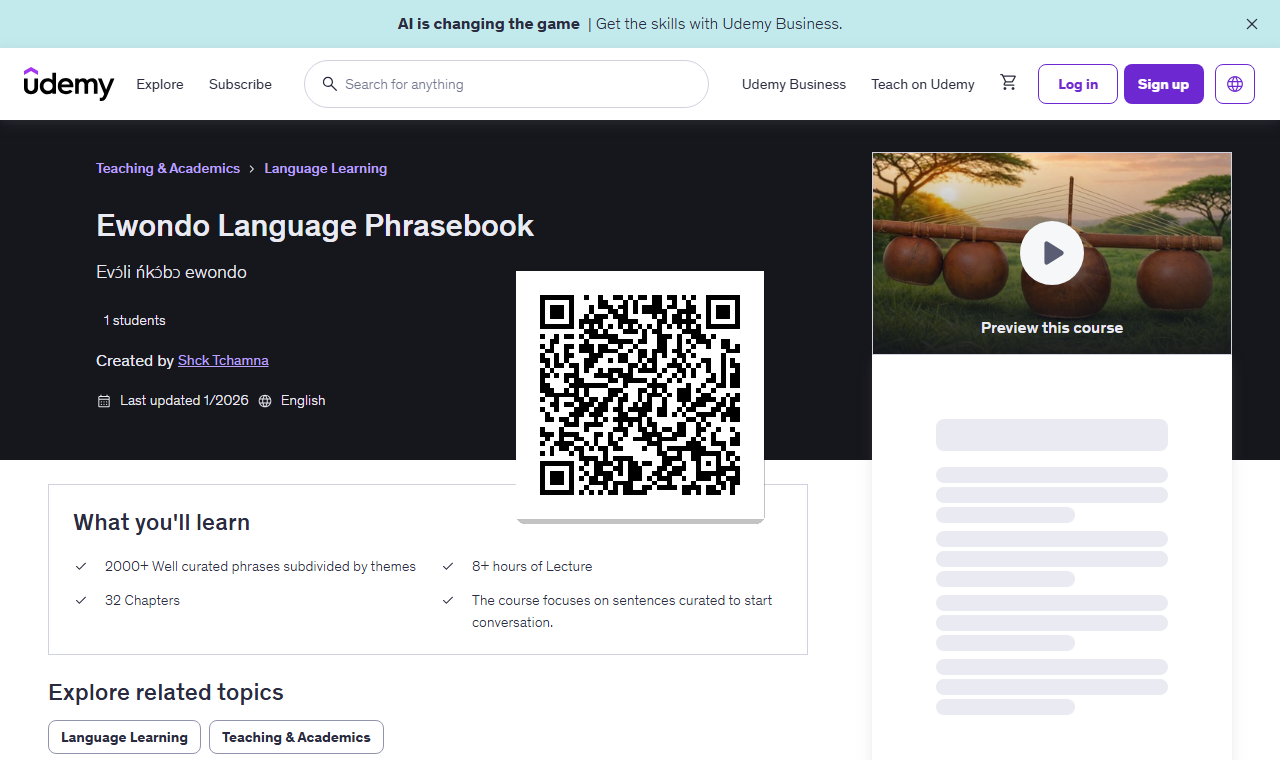
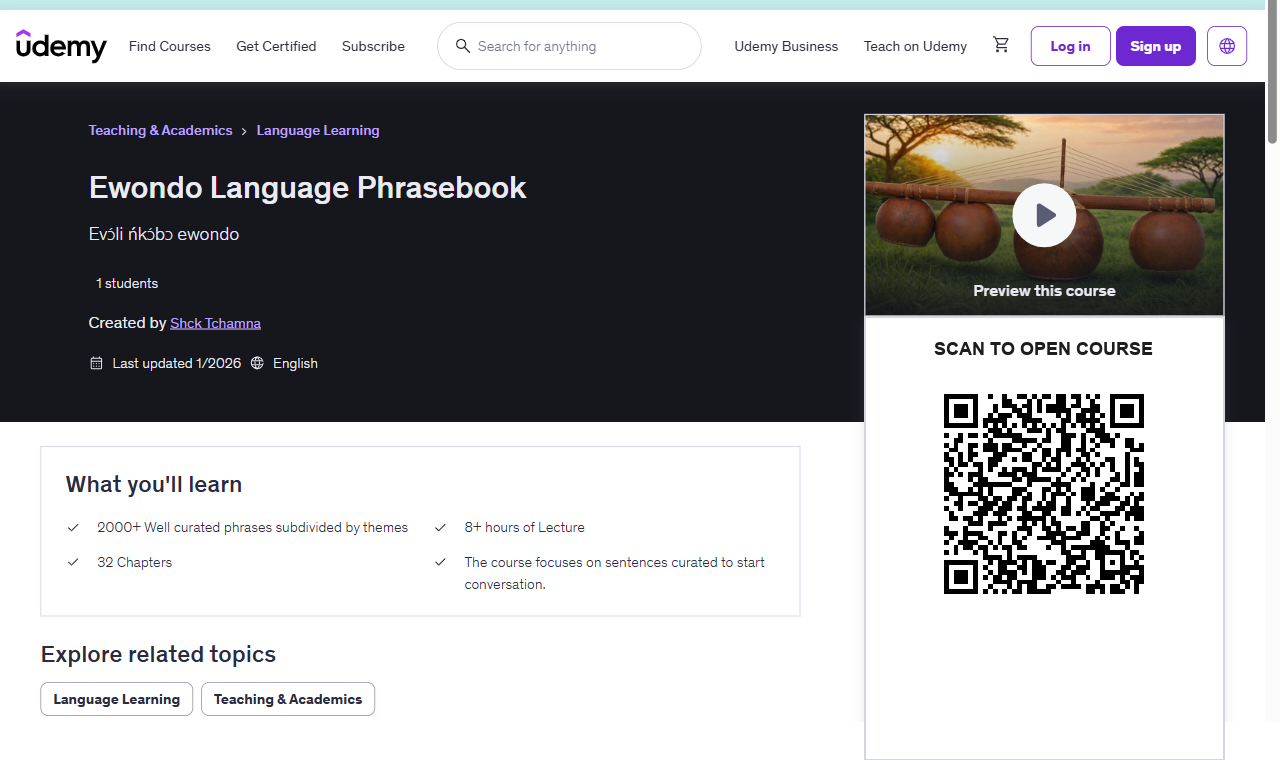
Replace course covers with live Udemy captures.

diff --git a/scripts/tools/generate_udemy_course_covers.py b/scripts/tools/generate_udemy_course_covers.py
@@ -3,11 +3,13 @@
 from __future__ import annotations
 
 import argparse
+import json
+import re
 from io import BytesIO
 from pathlib import Path
 
 import qrcode
-from PIL import Image, ImageDraw
+from PIL import Image, ImageDraw, ImageFont
 from playwright.sync_api import sync_playwright
 
 PROJECT_ROOT = Path(__file__).resolve().parents[2]
@@ -69,7 +71,8 @@ VIEWPORT = {"width": 1280, "height": 900}
 SCREENSHOT_HEIGHT = 760
 QR_SIZE = 220
 QR_PADDING = 14
-QR_Y_RATIO = 0.52
+TOP_PROMO_CROP = 38
+PRICE_PATTERN = re.compile(r"[$€£¥₹]|%\s*off|coupon|discount", re.IGNORECASE)
 
 
 def dismiss_overlays(page) -> None:
@@ -95,84 +98,71 @@ def is_cloudflare_block(page) -> bool:
     return "Performing security verification" in content or "Verify you are human" in content
 
 
-def capture_course_screenshot(page, url: str) -> Image.Image:
-    page.goto("https://www.udemy.com/", wait_until="domcontentloaded", timeout=60000)
-    page.wait_for_timeout(2000)
-    page.goto(url, wait_until="domcontentloaded", timeout=60000)
-    try:
-        page.wait_for_load_state("networkidle", timeout=15000)
-    except Exception:
-        pass
+def capture_course_screenshot(page, course: dict) -> tuple[Image.Image, dict]:
+    """Capture one genuine Udemy page from an already-running normal Chrome session."""
+    response = page.goto(course["url"], wait_until="domcontentloaded", timeout=60000)
+    expected_title = course["title"]
+    actual_title = ""
+    for _ in range(18):
+        page.wait_for_timeout(2500)
+        actual_title = page.locator("h1").first.inner_text() if page.locator("h1").count() else ""
+        if actual_title == expected_title and page.title() != "Just a moment...":
+            break
+    else:
+        status = response.status if response else "unknown"
+        raise RuntimeError(
+            f"{course['slug']}: direct Udemy page did not become ready "
+            f"(status={status}, page_title={page.title()!r}, h1={actual_title!r})"
+        )
+
     dismiss_overlays(page)
-    page.wait_for_timeout(2500)
+    page.evaluate("window.scrollTo(0, 0)")
+    page.wait_for_timeout(5000)
     if is_cloudflare_block(page):
         raise RuntimeError("Cloudflare verification page detected")
-    png_bytes = page.screenshot(full_page=False, clip={"x": 0, "y": 0, "width": VIEWPORT["width"], "height": SCREENSHOT_HEIGHT})
-    return Image.open(BytesIO(png_bytes)).convert("RGB")
 
+    preview_box = None
+    preview_candidates = page.get_by_text("Preview this course", exact=True)
+    for index in range(preview_candidates.count()):
+        candidate = preview_candidates.nth(index)
+        if candidate.is_visible():
+            preview_box = candidate.bounding_box()
+            break
+    if not preview_box:
+        raise RuntimeError(f"{course['slug']}: genuine course preview is not visible")
 
-def render_fallback_screenshot(page, course: dict) -> Image.Image:
-    html = f"""<!DOCTYPE html>
-<html>
-<head>
-  <meta charset="utf-8">
-  <style>
-    body {{ margin: 0; font-family: "Udemy Sans", "SF Pro Text", -apple-system, BlinkMacSystemFont, "Segoe UI", sans-serif; background: #fff; color: #1c1d1f; }}
-    .topbar {{ display:flex; align-items:center; gap:16px; padding: 12px 24px; border-bottom: 1px solid #d1d7dc; }}
-    .logo {{ font-weight: 800; font-size: 22px; letter-spacing: -1px; }}
-    .search {{ flex:1; border:1px solid #1c1d1f; border-radius:999px; padding: 10px 16px; color:#6a6f73; }}
-    .nav {{ display:flex; gap:16px; color:#1c1d1f; font-size:14px; }}
-    .banner {{ position: relative; background: #1c1d1f; color: #fff; padding: 24px 32px 120px; min-height: 420px; }}
-    .crumb {{ color: #c0c4fc; font-size: 14px; margin-bottom: 12px; }}
-    h1 {{ font-size: 32px; line-height: 1.2; margin: 0 0 8px; max-width: 700px; }}
-    .subtitle {{ color: #d1d7dc; margin-bottom: 16px; font-size: 18px; }}
-    .meta {{ color: #d1d7dc; font-size: 14px; }}
-    .card {{ position: absolute; top: 24px; right: 32px; width: 340px; background: #fff; border: 1px solid #d1d7dc; box-shadow: 0 2px 4px rgba(0,0,0,.08), 0 4px 12px rgba(0,0,0,.08); }}
-    .preview {{ height: 190px; background: linear-gradient(135deg, #667eea 0%, #764ba2 100%); display:flex; align-items:center; justify-content:center; color:#fff; font-weight:700; }}
-    .card-body {{ padding: 24px; }}
-    .btn {{ display:block; width:100%; padding: 12px; text-align:center; border-radius: 0; font-weight:700; margin-bottom: 12px; box-sizing:border-box; }}
-    .btn-primary {{ background:#a435f0; color:#fff; border:none; }}
-    .btn-outline {{ background:#fff; color:#a435f0; border:1px solid #a435f0; }}
-    .learn {{ margin: -80px 32px 0; border: 1px solid #d1d7dc; padding: 24px; max-width: 760px; background:#fff; position:relative; z-index:1; }}
-    .learn h2 {{ margin-top: 0; font-size: 24px; }}
-    .grid {{ display:grid; grid-template-columns: 1fr 1fr; gap: 8px 24px; }}
-    .item {{ display:flex; gap:8px; font-size: 14px; align-items:flex-start; }}
-  </style>
-</head>
-<body>
-  <div class="topbar">
-    <div class="logo">udemy</div>
-    <div class="search">Search for anything</div>
-    <div class="nav"><span>Plans &amp; Pricing</span><span>Udemy Business</span><span>Log in</span></div>
-  </div>
-  <div class="banner">
-    <div class="crumb">Teaching &amp; Academics &gt; Language Learning</div>
-    <h1>{course["title"]}</h1>
-    <div class="subtitle">{course["subtitle"]}</div>
-    <div class="meta">Created by <u>Shck Tchamna</u> · Last updated 1/2026 · English</div>
-    <div class="card">
-      <div class="preview">Preview this course</div>
-      <div class="card-body">
-        <button class="btn btn-primary">Add to cart</button>
-        <button class="btn btn-outline">Buy now</button>
-      </div>
-    </div>
-  </div>
-  <div class="learn">
-    <h2>What you'll learn</h2>
-    <div class="grid">
-      <div class="item">✓ 2000+ Well curated phrases subdivided by themes</div>
-      <div class="item">✓ 32 Chapters</div>
-      <div class="item">✓ 8+ hours of Lecture</div>
-      <div class="item">✓ The course focuses on sentences curated to start conversation.</div>
-    </div>
-  </div>
-</body>
-</html>"""
-    page.set_content(html, wait_until="load")
-    page.wait_for_timeout(500)
+    price_nodes = page.evaluate(
+        """() => Array.from(document.querySelectorAll('body *')).map(el => {
+            const rect = el.getBoundingClientRect();
+            const ownText = Array.from(el.childNodes)
+                .filter(node => node.nodeType === Node.TEXT_NODE)
+                .map(node => node.textContent)
+                .join(' ')
+                .trim();
+            return {
+                text: ownText,
+                x: rect.x,
+                y: rect.y,
+                width: rect.width,
+                height: rect.height,
+                visible: Boolean(rect.width && rect.height),
+            };
+        }).filter(item =>
+            item.visible
+            && /[$€£¥₹]|%\\s*off|coupon|discount/i.test(item.text)
+            && item.y < 760
+        )"""
+    )
     png_bytes = page.screenshot(full_page=False, clip={"x": 0, "y": 0, "width": VIEWPORT["width"], "height": SCREENSHOT_HEIGHT})
-    return Image.open(BytesIO(png_bytes)).convert("RGB")
+    screenshot = Image.open(BytesIO(png_bytes)).convert("RGB")
+    return screenshot, {
+        "slug": course["slug"],
+        "source_url": course["url"],
+        "final_url": page.url,
+        "h1": actual_title,
+        "preview_box": preview_box,
+        "price_nodes": price_nodes,
+    }
 
 
 def make_qr_overlay(url: str, size: int, padding: int) -> Image.Image:
@@ -193,62 +183,96 @@ def make_qr_overlay(url: str, size: int, padding: int) -> Image.Image:
     return canvas
 
 
-def overlay_qr(screenshot: Image.Image, qr_overlay: Image.Image) -> Image.Image:
-    result = screenshot.copy()
-    x = (result.width - qr_overlay.width) // 2
-    y = int(result.height * QR_Y_RATIO) - qr_overlay.height // 2
+def compose_price_safe_cover(
+    screenshot: Image.Image,
+    qr_overlay: Image.Image,
+    metadata: dict,
+) -> Image.Image:
+    """Crop the promotional banner and replace only the pricing panel below the preview."""
+    preview = metadata["preview_box"]
+    panel = {
+        "x": float(preview["x"]),
+        "y": float(preview["y"]) + float(preview["height"]),
+        "width": float(preview["width"]),
+        "height": SCREENSHOT_HEIGHT - (float(preview["y"]) + float(preview["height"])),
+    }
 
-    shadow = Image.new("RGBA", (qr_overlay.width + 8, qr_overlay.height + 8), (0, 0, 0, 0))
-    shadow_draw = ImageDraw.Draw(shadow)
-    shadow_draw.rounded_rectangle(
-        (4, 4, qr_overlay.width + 4, qr_overlay.height + 4),
-        radius=8,
-        fill=(0, 0, 0, 60),
+    for node in metadata["price_nodes"]:
+        if not PRICE_PATTERN.search(str(node["text"])):
+            continue
+        node_right = float(node["x"]) + float(node["width"])
+        node_bottom = float(node["y"]) + float(node["height"])
+        removed_by_crop = node_bottom <= TOP_PROMO_CROP
+        removed_by_panel = (
+            float(node["x"]) >= panel["x"]
+            and float(node["y"]) >= panel["y"]
+            and node_right <= panel["x"] + panel["width"]
+        )
+        if not (removed_by_crop or removed_by_panel):
+            raise RuntimeError(
+                f"{metadata['slug']}: detected price text lies outside the redacted regions: "
+                f"{node['text']!r} at ({node['x']}, {node['y']})"
+            )
+
+    result = Image.new("RGB", screenshot.size, "white")
+    visible_page = screenshot.crop((0, TOP_PROMO_CROP, screenshot.width, screenshot.height))
+    result.paste(visible_page, (0, 0))
+
+    panel_left = round(panel["x"])
+    panel_top = round(panel["y"] - TOP_PROMO_CROP)
+    panel_right = round(panel["x"] + panel["width"])
+    draw = ImageDraw.Draw(result)
+    draw.rectangle(
+        (panel_left, panel_top, panel_right, result.height),
+        fill="#ffffff",
+        outline="#d1d7dc",
+        width=2,
     )
-    result.paste(shadow, (x - 4, y), shadow)
 
-    result.paste(qr_overlay, (x, y))
+    label = "SCAN TO OPEN COURSE"
+    try:
+        font = ImageFont.truetype("arialbd.ttf", 18)
+    except OSError:
+        font = ImageFont.load_default()
+    label_box = draw.textbbox((0, 0), label, font=font)
+    label_width = label_box[2] - label_box[0]
+    label_x = panel_left + (panel_right - panel_left - label_width) // 2
+    label_y = panel_top + 22
+    draw.text((label_x, label_y), label, fill="#1c1d1f", font=font)
+
+    qr_x = panel_left + (panel_right - panel_left - qr_overlay.width) // 2
+    qr_y = label_y + 32
+    result.paste(qr_overlay, (qr_x, qr_y))
     return result
 
 
-def generate_cover(playwright, course: dict, output_dir: Path) -> Path:
-    screenshot = None
-    last_error = None
-    for attempt in range(3):
-        browser = playwright.chromium.launch(headless=True)
-        context = browser.new_context(
-            viewport=VIEWPORT,
-            user_agent=(
-                "Mozilla/5.0 (Windows NT 10.0; Win64; x64) "
-                "AppleWebKit/537.36 (KHTML, like Gecko) "
-                "Chrome/122.0.0.0 Safari/537.36"
-            ),
+def validate_qr(output_path: Path, expected_url: str) -> str:
+    try:
+        import cv2
+    except ImportError as exc:
+        raise RuntimeError(
+            "QR validation requires opencv-python (use a version compatible with this project's NumPy pin)"
+        ) from exc
+    decoded, _, _ = cv2.QRCodeDetector().detectAndDecode(cv2.imread(str(output_path)))
+    if decoded != expected_url:
+        raise RuntimeError(
+            f"{output_path.name}: QR decoded as {decoded!r}, expected {expected_url!r}"
         )
-        page = context.new_page()
-        try:
-            screenshot = capture_course_screenshot(page, course["url"])
-            break
-        except Exception as exc:
-            last_error = exc
-            page.wait_for_timeout(4000 * (attempt + 1))
-        finally:
-            browser.close()
+    return decoded
 
-    if screenshot is None:
-        print(f"Warning: live Udemy capture failed for {course['slug']} ({last_error}); using styled fallback.")
-        browser = playwright.chromium.launch(headless=True)
-        context = browser.new_context(viewport=VIEWPORT)
-        page = context.new_page()
-        screenshot = render_fallback_screenshot(page, course)
-        browser.close()
 
+def generate_cover(page, course: dict, output_dir: Path) -> tuple[Path, dict]:
+    screenshot, metadata = capture_course_screenshot(page, course)
     qr_overlay = make_qr_overlay(course["url"], QR_SIZE, QR_PADDING)
-    final = overlay_qr(screenshot, qr_overlay)
+    final = compose_price_safe_cover(screenshot, qr_overlay, metadata)
 
     output_dir.mkdir(parents=True, exist_ok=True)
     output_path = output_dir / course["filename"]
     final.save(output_path, "PNG", optimize=True)
-    return output_path
+    metadata["qr_url"] = validate_qr(output_path, course["url"])
+    metadata["dimensions"] = list(final.size)
+    metadata["price_regions_removed"] = len(metadata["price_nodes"])
+    return output_path, metadata
 
 
 def main() -> None:
@@ -264,6 +288,19 @@ def main() -> None:
         default=OUTPUT_DIR,
         help="Directory for generated PNG files.",
     )
+    parser.add_argument(
+        "--cdp-url",
+        default="http://127.0.0.1:9222",
+        help=(
+            "DevTools endpoint for an already-running, normal installed browser. "
+            "The script never launches an automated browser or creates fallback pages."
+        ),
+    )
+    parser.add_argument(
+        "--metadata-output",
+        type=Path,
+        help="Optional JSON path for direct-capture and validation evidence.",
+    )
     args = parser.parse_args()
 
     selected = COURSES
@@ -274,10 +311,38 @@ def main() -> None:
         if missing:
             raise SystemExit(f"Unknown slug(s): {', '.join(sorted(missing))}")
 
+    capture_results = []
     with sync_playwright() as playwright:
-        for course in selected:
-            output_path = generate_cover(playwright, course, args.output_dir)
-            print(f"Saved {output_path}")
+        try:
+            browser = playwright.chromium.connect_over_cdp(args.cdp_url)
+        except Exception as exc:
+            raise SystemExit(
+                "Could not connect to a normal installed browser. Start Chrome or Edge "
+                "in headed mode with a dedicated profile and --remote-debugging-port=9222. "
+                "No synthetic fallback is available."
+            ) from exc
+        contexts = browser.contexts
+        if not contexts:
+            raise SystemExit("The connected browser has no normal browsing context.")
+        pages = contexts[0].pages
+        page = pages[0] if pages else contexts[0].new_page()
+        page.set_viewport_size(VIEWPORT)
+        for index, course in enumerate(selected):
+            output_path, metadata = generate_cover(page, course, args.output_dir)
+            capture_results.append(metadata)
+            print(
+                f"Saved {output_path}: direct H1={metadata['h1']!r}, "
+                f"QR verified, {metadata['price_regions_removed']} price regions removed"
+            )
+            if index < len(selected) - 1:
+                page.wait_for_timeout(9000)
+
+    if args.metadata_output:
+        args.metadata_output.parent.mkdir(parents=True, exist_ok=True)
+        args.metadata_output.write_text(
+            json.dumps(capture_results, ensure_ascii=False, indent=2),
+            encoding="utf-8",
+        )
 
 
 if __name__ == "__main__":
